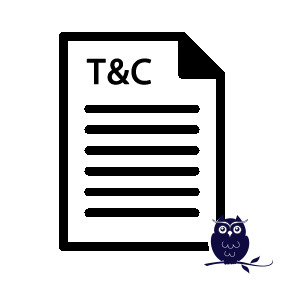
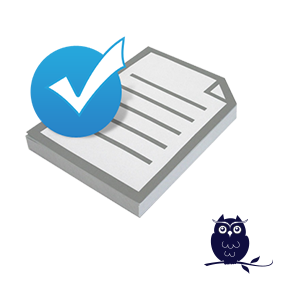
Improve display of community module

diff --git a/terms_conditions/__openerp__.py b/terms_conditions/__openerp__.py
@@ -14,7 +14,7 @@ Allows you to add Terms and Conditions to your documents.
     'license': 'AGPL-3',
     'website': 'https://www.niboo.be/',
     'images': [
-        'static/description/versioning_cover.png',
+        'static/description/terms_conditions_cover.png',
     ],
     'depends': [
         'sale'
